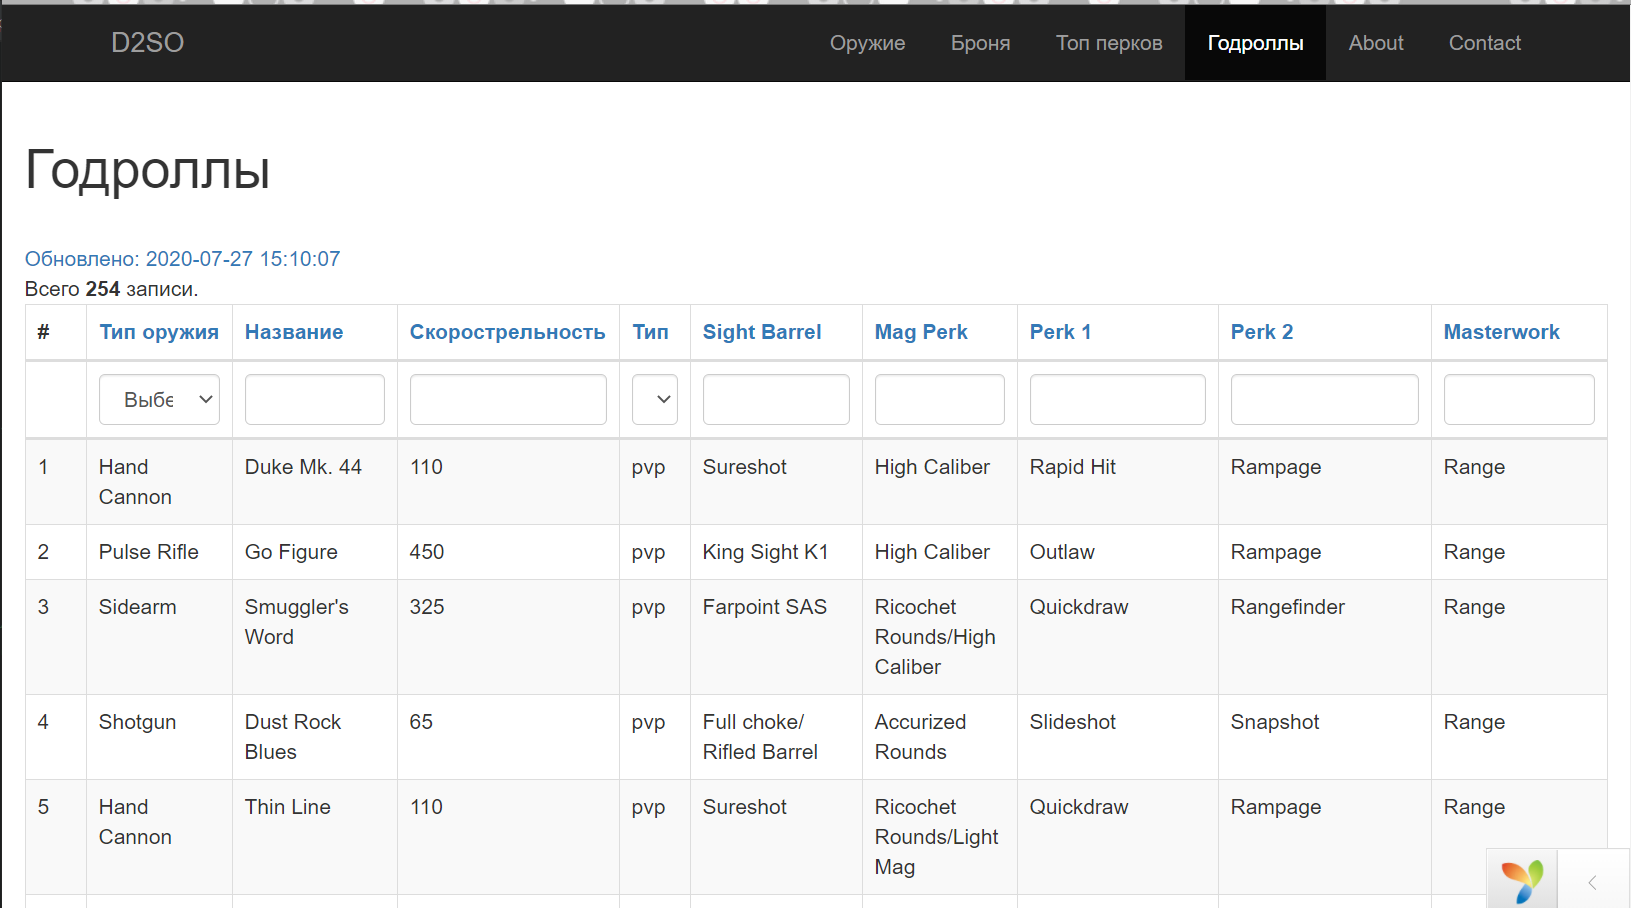
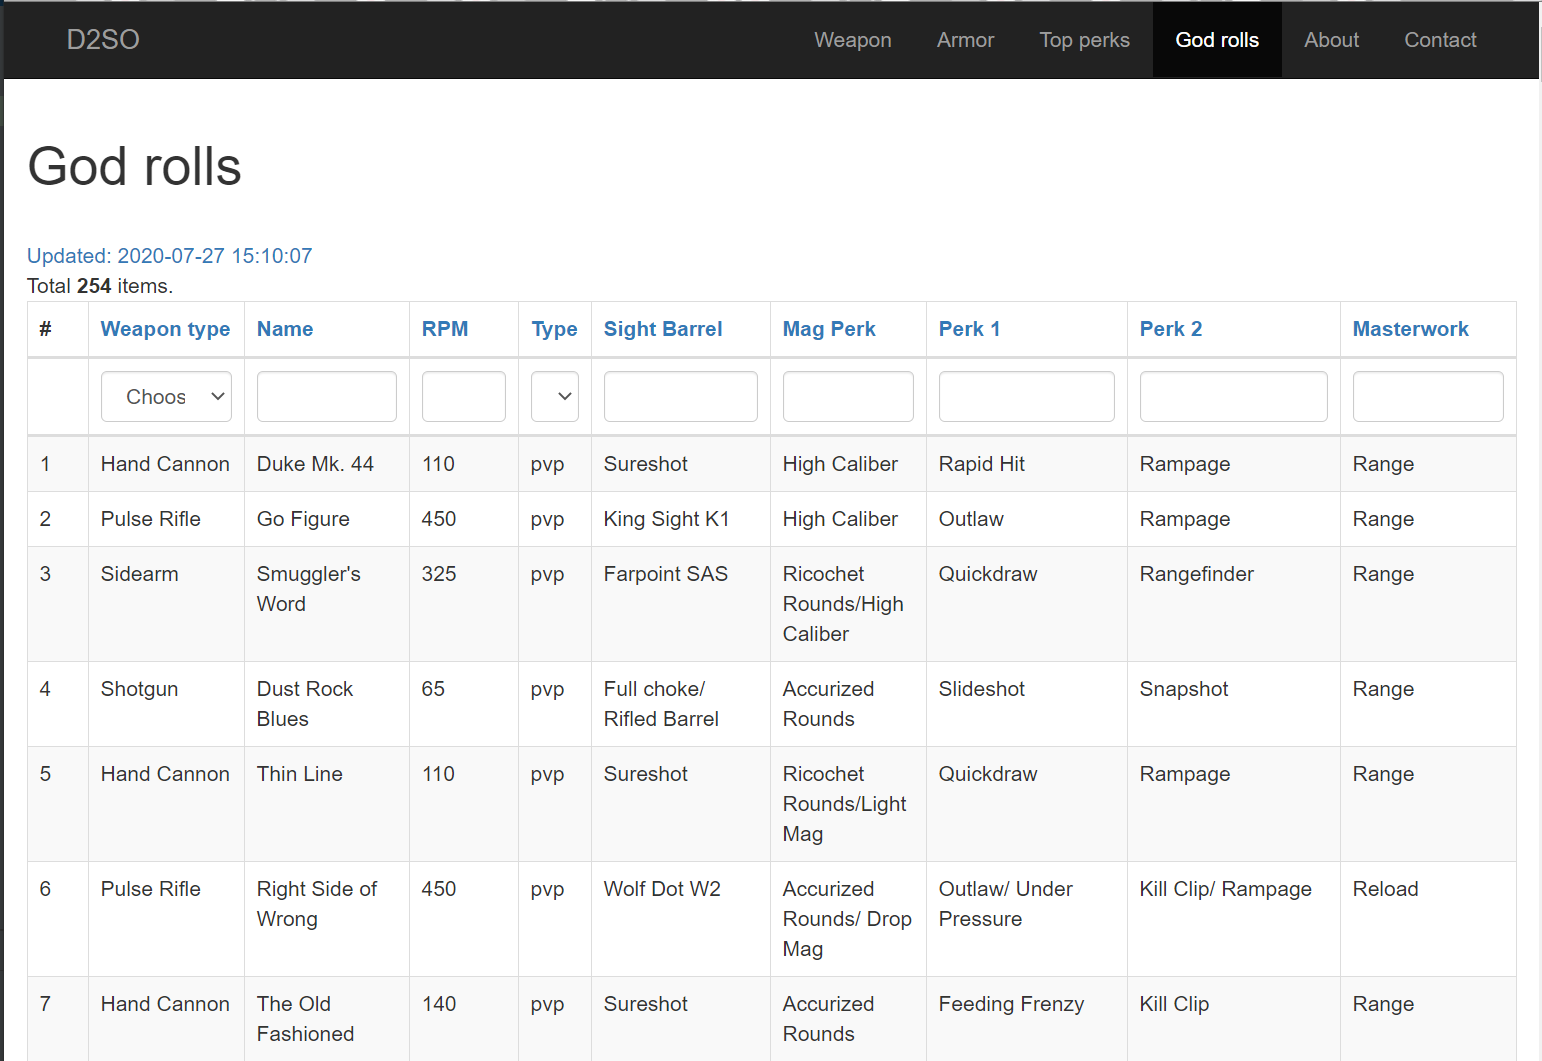
Full english localization

diff --git a/web/css/site.css b/web/css/site.css
@@ -121,5 +121,5 @@ a.desc:after {
 }
 
 .auth-icon.bungie:before{
-    content: 'Войти';
+    content: 'Login';
 }

diff --git a/views/site/armor.php b/views/site/armor.php
@@ -6,7 +6,7 @@ use yii\grid\GridView;
 /* @var $dataProvider yii\data\ActiveDataProvider */
 /* @var $searchModel app/models\ArmorsSearch */
 
-$this->title = 'Броня';
+$this->title = 'Armor';
 $this->registerJs("
     $('#show_armor_form').on('click', function(e) {
         e.preventDefault();
@@ -28,18 +28,18 @@ if (Yii::$app->user->isGuest) {
 } else { ?>
     <h1><?= $this->title; ?></h1>
     <br/>
-    <a href="#" id="show_armor_form">Обновлено: <?= Yii::$app->user->identity->last_sync_armor; ?></a>
+    <a href="#" id="show_armor_form">Updated: <?= Yii::$app->user->identity->last_sync_armor; ?></a>
     <br/>
     <hr/>
     <div id="update_armor_form" style="display: none;">
         <?php $form = \yii\bootstrap\ActiveForm::begin(['action' => ['site/sync-armor'], 'options' => ['enctype' => 'multipart/form-data']]) ?>
         <?= $form->field($model, 'csv_file')->fileInput()->label(false); ?>
-        <?= \yii\bootstrap\Html::button('Синхронизироваться', ['type' => 'submit', 'class' => 'btn btn-danger']); ?>
+        <?= \yii\bootstrap\Html::button('Import', ['type' => 'submit', 'class' => 'btn btn-danger']); ?>
 
         <?php \yii\bootstrap\ActiveForm::end() ?>
         <hr/>
     </div>
-    <a href="#" id="show_export_form">Экспортировать</a>
+    <a href="#" id="show_export_form">Export</a>
 
     <div id="export_armor_form" style="display: none;">
         <?php $form = \yii\bootstrap\ActiveForm::begin(['action' => ['site/export-armor']]) ?>
@@ -68,7 +68,7 @@ if (Yii::$app->user->isGuest) {
         ])->label(false); ?>
 
         <?= $form->field($export_model, 'export_other')->checkbox(); ?>
-        <?= \yii\bootstrap\Html::button('Экспортировать', ['type' => 'submit', 'class' => 'btn btn-danger']); ?>
+        <?= \yii\bootstrap\Html::button('Export', ['type' => 'submit', 'class' => 'btn btn-danger']); ?>
 
         <?php \yii\bootstrap\ActiveForm::end() ?>
         <hr/>
@@ -83,7 +83,7 @@ if (Yii::$app->user->isGuest) {
                 'Name',
                 [
                     'attribute' => 'Season_mod',
-                    'filter' => \yii\helpers\Html::activeDropDownList($searchModel, 'Season_mod', array_filter(\yii\helpers\ArrayHelper::map(\app\models\Armors::find()->distinct('Season_mod')->orderBy(['Season_mod'=>SORT_DESC])->all(), 'Season_mod', 'Season_mod')), ['class' => 'form-control', 'prompt' => 'Выберите']),
+                    'filter' => \yii\helpers\Html::activeDropDownList($searchModel, 'Season_mod', array_filter(\yii\helpers\ArrayHelper::map(\app\models\Armors::find()->distinct('Season_mod')->orderBy(['Season_mod'=>SORT_DESC])->all(), 'Season_mod', 'Season_mod')), ['class' => 'form-control', 'prompt' => 'Choose']),
                 ],
                 [
                     'attribute' => 'Equippable',
@@ -91,7 +91,7 @@ if (Yii::$app->user->isGuest) {
                         'Warlock'=> 'Warlock',
                         'Hunter'=> 'Hunter',
                         'Titan'=> 'Titan'
-                    ], ['class' => 'form-control', 'prompt' => 'Выберите']),
+                    ], ['class' => 'form-control', 'prompt' => 'Choose']),
                 ],
                 [
                     'attribute' => 'Type',
@@ -100,7 +100,7 @@ if (Yii::$app->user->isGuest) {
                             'Gauntlets'=>'Gauntlets',
                             'Chest Armor'=>'Chest Armor',
                             'Leg Armor' => 'Leg Armor'
-                    ], ['class' => 'form-control', 'prompt' => 'Выберите']),
+                    ], ['class' => 'form-control', 'prompt' => 'Choose']),
                 ],
                 [
                     'attribute' => 'Masterwork_Type',
@@ -108,7 +108,7 @@ if (Yii::$app->user->isGuest) {
                         'Void Energy Capacity' => 'Void',
                         'Solar Energy Capacity' => 'Solar',
                         'Arc Energy Capacity' => 'Arc'
-                    ], ['class' => 'form-control', 'prompt' => 'Выберите']),
+                    ], ['class' => 'form-control', 'prompt' => 'Choose']),
                 ],
                 'Mobility',
                 'Recovery',
@@ -141,7 +141,7 @@ if (Yii::$app->user->isGuest) {
                         'Intellect_Discipline' => 'Intellect+Discipline',
                         'Intellect_Strength' => 'Intellect+Strength',
                         'Discipline_Strength' => 'Discipline+Strength',
-                    ], ['class' => 'form-control', 'prompt' => 'Выберите']),
+                    ], ['class' => 'form-control', 'prompt' => 'Choose']),
                 ],
             ],
         ]); ?>

diff --git a/views/site/index.php b/views/site/index.php
@@ -7,7 +7,7 @@ use yii\helpers\ArrayHelper;
 /* @var $dataProvider yii\data\ActiveDataProvider */
 /* @var $searchModel app\models\WeaponsSearch */
 
-$this->title = 'Оружие';
+$this->title = 'Weapon';
 $this->registerJs("
     $('#show_weapon_form').on('click', function(e) {
         e.preventDefault();
@@ -24,18 +24,18 @@ if (Yii::$app->user->isGuest) {
 } else { ?>
     <h1><?= $this->title; ?></h1>
     <br/>
-    <a href="#" id="show_weapon_form">Обновлено: <?= Yii::$app->user->identity->last_sync_weapon; ?></a>
+    <a href="#" id="show_weapon_form">Updated: <?= Yii::$app->user->identity->last_sync_weapon; ?></a>
     <br/>
     <hr/>
     <div id="update_weapon_form" style="display: none;">
         <?php $form = \yii\bootstrap\ActiveForm::begin(['action' => ['site/sync-weapons'], 'options' => ['enctype' => 'multipart/form-data']]) ?>
         <?= $form->field($model, 'csv_file')->fileInput()->label(false); ?>
-        <?= \yii\bootstrap\Html::button('Синхронизироваться', ['type' => 'submit', 'class' => 'btn btn-danger']); ?>
+        <?= \yii\bootstrap\Html::button('Import', ['type' => 'submit', 'class' => 'btn btn-danger']); ?>
 
         <?php \yii\bootstrap\ActiveForm::end() ?>
         <hr/>
     </div>
-    <?= \yii\bootstrap\Html::a('Экспортировать', ['site/export-weapons']); ?>
+    <?= \yii\bootstrap\Html::a('Export', ['site/export-weapons']); ?>
     <?php
     $columns = [
         ['class' => 'yii\grid\SerialColumn'],
@@ -43,11 +43,11 @@ if (Yii::$app->user->isGuest) {
         'Name',
         [
             'attribute' => 'Type',
-            'filter' => \yii\helpers\Html::activeDropDownList($searchModel, 'Type', array_filter(ArrayHelper::map(\app\models\Weapons::find()->distinct('Type')->all(), 'Type', 'Type')), ['class' => 'form-control', 'prompt' => 'Выберите']),
+            'filter' => \yii\helpers\Html::activeDropDownList($searchModel, 'Type', array_filter(ArrayHelper::map(\app\models\Weapons::find()->distinct('Type')->all(), 'Type', 'Type')), ['class' => 'form-control', 'prompt' => 'Choose']),
         ],
         [
             'attribute' => 'Dmg',
-            'filter' => \yii\helpers\Html::activeDropDownList($searchModel, 'Dmg', array_filter(ArrayHelper::map(\app\models\Weapons::find()->distinct('Dmg')->all(), 'Dmg', 'Dmg')), ['class' => 'form-control', 'prompt' => 'Выберите']),
+            'filter' => \yii\helpers\Html::activeDropDownList($searchModel, 'Dmg', array_filter(ArrayHelper::map(\app\models\Weapons::find()->distinct('Dmg')->all(), 'Dmg', 'Dmg')), ['class' => 'form-control', 'prompt' => 'Choose']),
         ],
         'Rpm',
         [
@@ -63,7 +63,7 @@ if (Yii::$app->user->isGuest) {
             'value' => function ($data) {
                 return $data->Masterwork_Type.($data->Masterwork_Type_godroll?' <span class="badge">'.$data->Masterwork_Type_godroll.'</span>':'');
             },
-            'filter' => \yii\helpers\Html::activeDropDownList($searchModel, 'Masterwork_Type', array_filter(ArrayHelper::map(\app\models\Weapons::find()->distinct('Masterwork_Type')->all(), 'Masterwork_Type', 'Masterwork_Type')), ['class' => 'form-control', 'prompt' => 'Выберите']),
+            'filter' => \yii\helpers\Html::activeDropDownList($searchModel, 'Masterwork_Type', array_filter(ArrayHelper::map(\app\models\Weapons::find()->distinct('Masterwork_Type')->all(), 'Masterwork_Type', 'Masterwork_Type')), ['class' => 'form-control', 'prompt' => 'Choose']),
         ],
         'Power_Limit',
     ];

diff --git a/controllers/SiteController.php b/controllers/SiteController.php
@@ -92,7 +92,7 @@ class SiteController extends Controller
 	}
 
 	/**
-	 * Оружие
+	 * Weapon
 	 *
 	 * @return string
 	 */
@@ -130,7 +130,7 @@ class SiteController extends Controller
 	}
 
 	/**
-	 * Броня
+	 * Armor
 	 *
 	 * @return string
 	 */
@@ -160,7 +160,7 @@ class SiteController extends Controller
 	}
 
 	/**
-	 * Топ перков
+	 * Top perks
 	 *
 	 * @return string
 	 */
@@ -329,7 +329,7 @@ class SiteController extends Controller
 	}
 
 	/**
-	 * Синхронизация оружия
+	 * Weapon sync
 	 */
 	public function actionSyncWeapons()
 	{
@@ -342,7 +342,7 @@ class SiteController extends Controller
 					Weapons::deleteAll(['user_id' => Yii::$app->user->identity->id]);
 					Usage::deleteAll();
 
-					//Обновление рейтинга
+					//usage update
 					$http_client = new Client();
 					$response = $http_client->createRequest()
 						->setMethod('GET')
@@ -453,7 +453,7 @@ class SiteController extends Controller
 							die();
 						}
 
-						//Определение годроллов
+						//weapon god rolls calculation
 						$godroll_pve = Godroll::findOne(['Name' => $weapon_model->Name, 'Type' => 'pve']);
 						if (!$godroll_pve) {
 							$godroll_pve_arr = Godroll::find()->where(['wtype' => $weapon_model->Type, 'rpm' => $weapon_model->Rpm, 'Type' => 'pve'])->all();
@@ -478,7 +478,7 @@ class SiteController extends Controller
 							if ($current_godroll) $godroll_pvp = $godroll_pvp_arr[$current_godroll];
 						}
 
-						//Сохранение перков
+						//perks save
 						if ($godroll_pve) {
 							if (trim($godroll_pve->Masterwork) == trim($weapon_model->Masterwork_Type)) {
 								$weapon_model->pve_godrolls++;
@@ -577,7 +577,7 @@ class SiteController extends Controller
 	}
 
 	/**
-	 * Получение оружия с тегами
+	 * Export weapon with tags
 	 */
 	public function actionExportWeapons()
 	{
@@ -622,7 +622,7 @@ class SiteController extends Controller
 	}
 
 	/**
-	 * Синхронизация брони
+	 * Armor sync
 	 */
 	public function actionSyncArmor()
 	{
@@ -678,7 +678,7 @@ class SiteController extends Controller
 							if (isset($this->seasons[$armors['Seasonal Mod']])) {
 								$armor_model->Season_mod = $this->seasons[$armors['Seasonal Mod']];
 							} else {
-								throw new Exception('Неизвестный сезон: ' . $armors['Seasonal Mod']);
+								throw new Exception('Unknown season: ' . $armors['Seasonal Mod']);
 							}
 						}
 
@@ -724,13 +724,13 @@ class SiteController extends Controller
 	}
 
 	/**
-	 * Експорт брони
+	 * Armor export with perks
 	 */
 	public function actionExportArmor()
 	{
-		$count = 3; //количество оставляемых единиц брони
-		$min_sum = 60; //минимальная оставляемая сумма атрибутов (без модификатора)
-		$min_sum_season = 57; //минимальная оставляемая сумма атрибутов(текущий и прошлый сезон)
+		$count = 3; //count of armors with max attr to store
+		$min_sum = 60; //minimum armor attributes sum to store (without modifiers)
+		$min_sum_season = 57; //minimum armor attributes sum to store(current and previous season)
 		$min_power = $this->power_limit[$this->current_season];
 
 		$types = [
@@ -847,7 +847,7 @@ class SiteController extends Controller
 	}
 
 	/**
-	 * Синхронизация годроллов
+	 * God rolls sync
 	 */
 	public function actionSyncGodrolls()
 	{

diff --git a/views/site/godrolls.php b/views/site/godrolls.php
@@ -5,7 +5,7 @@ use yii\grid\GridView;
 /* @var $this yii\web\View */
 /* @var $dataProvider yii\data\ActiveDataProvider */
 /* @var $searchModel app\models\GodrollSearch */
-$this->title = 'Годроллы';
+$this->title = 'God rolls';
 $this->registerJs("
     $('#show_godroll_form').on('click', function(e) {
         e.preventDefault();
@@ -21,12 +21,12 @@ if (Yii::$app->user->isGuest) {
 } else { ?>
     <h1><?= $this->title; ?></h1>
     <br/>
-    <a href="#" id="show_godroll_form">Обновлено: <?= $last_sync_godrolls; ?></a>
+    <a href="#" id="show_godroll_form">Updated: <?= $last_sync_godrolls; ?></a>
     <br/>
     <div id="update_godroll_form" style="display: none;">
         <?php $form = \yii\bootstrap\ActiveForm::begin(['action' => ['site/sync-godrolls'], 'options' => ['enctype' => 'multipart/form-data']]) ?>
         <?= $form->field($model, 'csv_file')->fileInput()->label(false); ?>
-        <?= \yii\bootstrap\Html::button('Синхронизироваться', ['type' => 'submit', 'class' => 'btn btn-danger']); ?>
+        <?= \yii\bootstrap\Html::button('Sync', ['type' => 'submit', 'class' => 'btn btn-danger']); ?>
         <?php \yii\bootstrap\ActiveForm::end() ?>
         <hr/>
     </div>
@@ -38,7 +38,7 @@ if (Yii::$app->user->isGuest) {
             ['class' => 'yii\grid\SerialColumn'],
             [
                 'attribute' => 'wtype',
-                'filter' => \yii\helpers\Html::activeDropDownList($searchModel, 'wtype', $weapon_types, ['class' => 'form-control', 'prompt' => 'Выберите']),
+                'filter' => \yii\helpers\Html::activeDropDownList($searchModel, 'wtype', $weapon_types, ['class' => 'form-control', 'prompt' => 'Choose']),
             ],
             'Name',
             'rpm',
@@ -47,7 +47,7 @@ if (Yii::$app->user->isGuest) {
                 'filter' => \yii\helpers\Html::activeDropDownList($searchModel, 'Type', [
                     'pve'=> 'pve',
                     'pvp'=> 'pvp',
-                ], ['class' => 'form-control', 'prompt' => 'Выберите']),
+                ], ['class' => 'form-control', 'prompt' => 'Choose']),
             ],
             'Sight_Barrel',
             'Mag_Perk',

diff --git a/views/layouts/main.php b/views/layouts/main.php
@@ -39,10 +39,10 @@ AppAsset::register($this);
     $nav_items = [];
     if (!Yii::$app->user->isGuest) {
         $nav_items = [
-            ['label' => 'Оружие', 'url' => ['/site/index']],
-            ['label' => 'Броня', 'url' => ['/site/armor']],
-            ['label' => 'Топ перков', 'url' => ['/site/perks']],
-            ['label' => 'Годроллы', 'url' => ['/site/godrolls']],
+            ['label' => 'Weapon', 'url' => ['/site/index']],
+            ['label' => 'Armor', 'url' => ['/site/armor']],
+            ['label' => 'Top perks', 'url' => ['/site/perks']],
+            ['label' => 'God rolls', 'url' => ['/site/godrolls']],
         ];
     }
 

diff --git a/models/Godroll.php b/models/Godroll.php
@@ -47,15 +47,15 @@ class Godroll extends \yii\db\ActiveRecord
     public function attributeLabels()
     {
         return [
-            'Name' => 'Название',
+            'Name' => 'Name',
             'Sight/Barrel' => 'Sight/ Barrel',
             'Mag Perk' => 'Mag Perk',
             'Perk 1' => 'Perk 1',
             'Perk 2' => 'Perk 2',
             'Masterwork' => 'Masterwork',
-            'Type' => 'Тип',
-            'wtype' => 'Тип оружия',
-            'rpm' => 'Скорострельность'
+            'Type' => 'Type',
+            'wtype' => 'Weapon type',
+            'rpm' => 'RPM'
         ];
     }
 }

diff --git a/config/web.php b/config/web.php
@@ -7,7 +7,7 @@ $config = [
     'id' => 'basic',
     'name'=>'D2SO',
     'homeUrl'=>'/',
-    'language' => 'ru',
+    'language' => 'en',
     'timeZone' => 'Europe/Zaporozhye',
     'basePath' => dirname(__DIR__),
     'bootstrap' => ['log'],

diff --git a/views/site/perks.php b/views/site/perks.php
@@ -2,7 +2,7 @@
 
 /* @var $this yii\web\View */
 
-$this->title = 'Топ перков';
+$this->title = 'Top perks';
 
 if (Yii::$app->user->isGuest) {
     echo yii\authclient\widgets\AuthChoice::widget([

diff --git a/models/SyncForm.php b/models/SyncForm.php
@@ -23,6 +23,6 @@ class SyncForm extends Model
     }
     public function attributeLabels()
     {
-        return ['csv_file'=>'Файл'];
+        return ['csv_file'=>'File'];
     }
 }

diff --git a/README.md b/README.md
@@ -12,21 +12,21 @@ Weapon godroll highlighter
 
 Was implemented before the realization of wishlists in DIM - now not very useful.
 
-### Import godrolls
-Import godrolls from file `docs/God Roll Weapons.xlsx`.  
-![Godrolls](screenshots/godrolls.png "Godrolls import")
+### Import god rolls
+Import god rolls from file `docs/God Roll Weapons.xlsx`.  
+![God rolls](screenshots/godrolls.png "God rolls import")
 On import, the application gets weapon type and rpm from https://destinytracker.com/ by API.
 ### Import weapons from DIM
 Import user weapon from DIM CSV export `docs/destinyWeapons.csv`.
 ![Weapons](screenshots/weapons.png "Weapons import\export")
-Green cell - godroll, red row - a weapon not in godrolls list
+Green cell - godroll, red row - a weapon not in god rolls list
 
 When importing, the application:
 - gets PVP and PVE usage from https://destinytracker.com/ by API.
-- counts PVP and PVE weapon godrolls based on imported godrolls list, highlights them.
-- if the weapon doesn't exist in godrolls list then weapon godrolls is calculated based on weapon type and rpm.
+- counts PVP and PVE weapon god rolls based on imported god rolls list, highlights them.
+- if the weapon doesn't exist in god rolls list then weapon god rolls is calculated based on weapon type and rpm.
 ### Export tags for DIM
-Export tags with godrolls count for the weapon in DIM CSV format  
+Export tags with god rolls count for the weapon in DIM CSV format  
 
 Armor stats maximizer
 ------------
